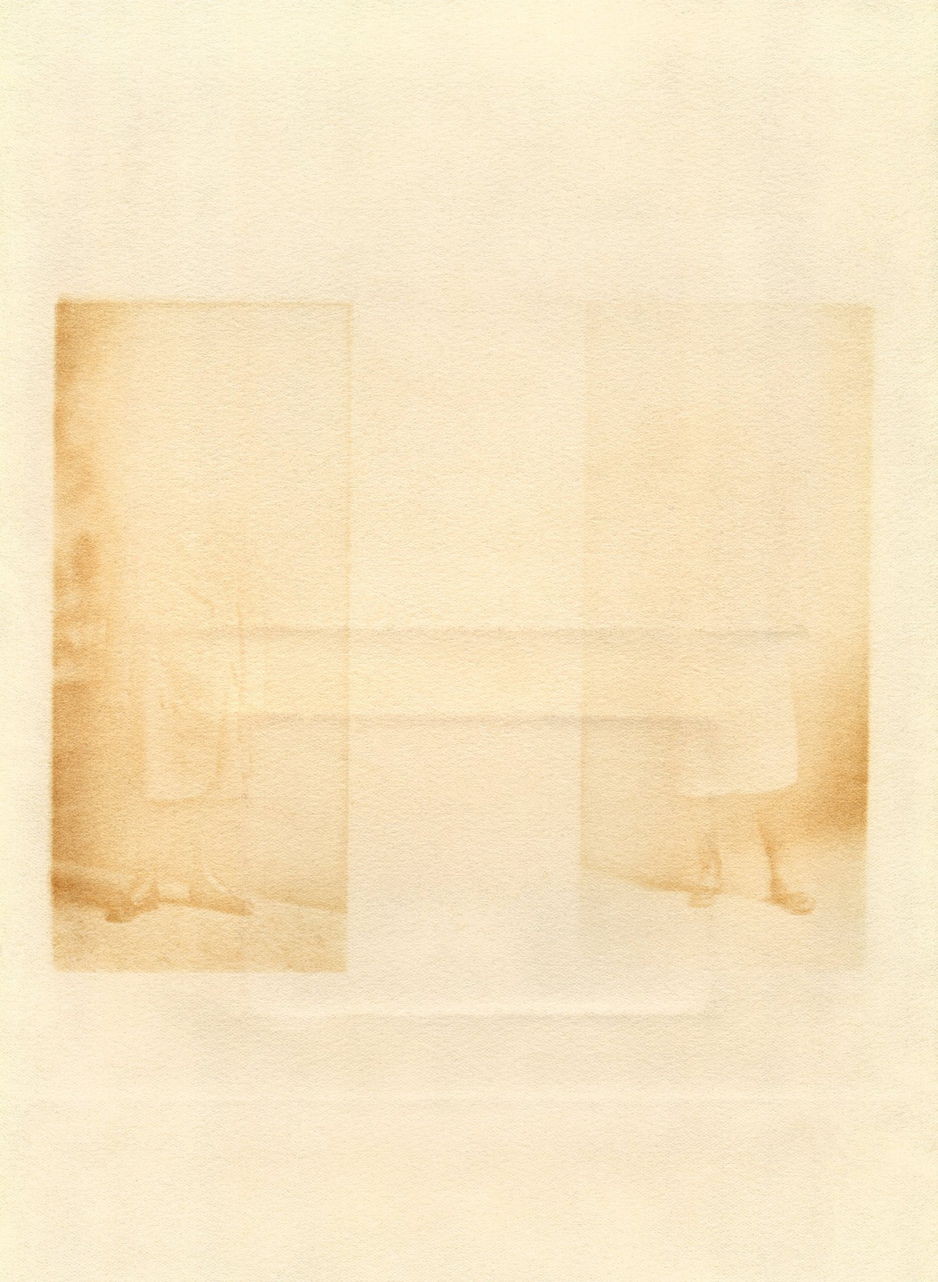
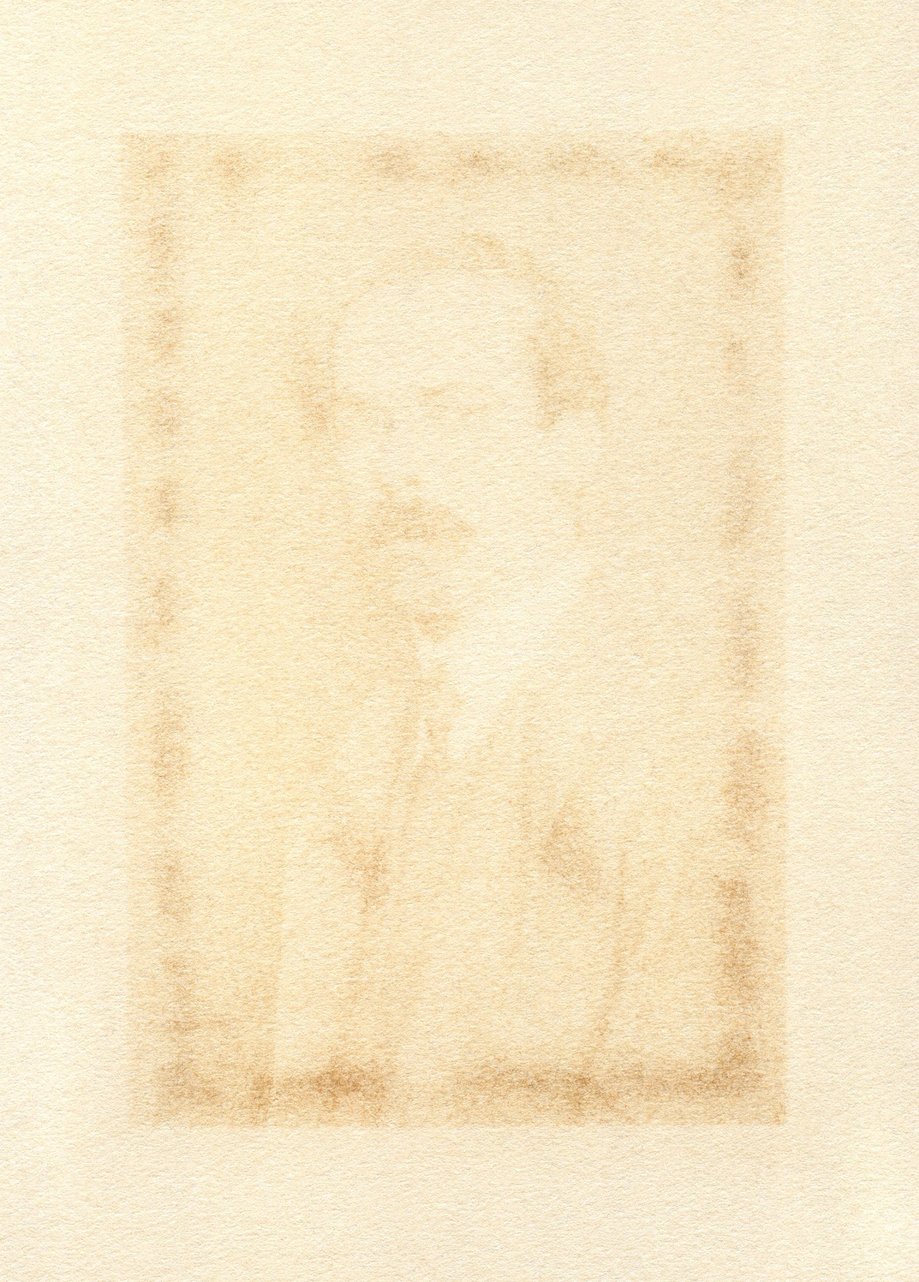
Acheiropoieta: add Man
Claude-Session: https://claude.ai/code/session_01JVoaYGW79WXXRpj5iE4Fxm

Changed region(s): [[0.0, 0.0938, 0.9552, 0.9062], [0.3081, 0.25, 0.4006, 0.3438]]

diff --git a/works/acheiropoieta.html b/works/acheiropoieta.html
@@ -6,5 +6,5 @@
 <link rel="stylesheet" href="../style.css?v=b70c86a7">
 </head><body>
 <header><a class="name" href="../index.html">Abraham Adams</a><nav><a href="../index.html" aria-current="page">works</a><a href="../books.html">books</a><a href="../exhibitions.html">exhibitions</a><a href="../info.html">info</a></nav></header>
-<main><article class="work"><h1><em>Acheiropoieta</em>, 2025</h1><p class="desc"><em>Acheiropoieta</em> is a series of images made by family-archive photographs imprinting themselves onto the backs of others over the course of 110 years in storage.</p><figure><img src="../img/acheiropoieta-01.jpg?v=5d37eb54" width="1790" height="2400" alt="Boy, 2025, from “Acheiropoieta" loading="eager"><figcaption>Boy, 2025, from “Acheiropoieta.” Digital color photograph, 13 × 17.5 in.</figcaption></figure><figure><img src="../img/acheiropoieta-02.jpg?v=d5be9d40" width="1757" height="2400" alt="Two Boys, 2025, from “Acheiropoieta" loading="lazy"><figcaption>Two Boys, 2025, from “Acheiropoieta.” Digital color photograph, 13 × 17.5 in.</figcaption></figure></article></main>
+<main><article class="work"><h1><em>Acheiropoieta</em>, 2025</h1><p class="desc"><em>Acheiropoieta</em> is a series of images made by family-archive photographs imprinting themselves onto the backs of others over the course of 110 years in storage.</p><figure><img src="../img/acheiropoieta-01.jpg?v=5d37eb54" width="1790" height="2400" alt="Boy, 2025, from “Acheiropoieta" loading="eager"><figcaption>Boy, 2025, from “Acheiropoieta.” Digital color photograph, 13 × 17.5 in.</figcaption></figure><figure><img src="../img/acheiropoieta-02.jpg?v=38ec5e78" width="1720" height="2400" alt="Man, 2025, from “Acheiropoieta" loading="lazy"><figcaption>Man, 2025, from “Acheiropoieta.” Digital color photograph, 13 × 17.5 in.</figcaption></figure><figure><img src="../img/acheiropoieta-03.jpg?v=d5be9d40" width="1757" height="2400" alt="Two Boys, 2025, from “Acheiropoieta" loading="lazy"><figcaption>Two Boys, 2025, from “Acheiropoieta.” Digital color photograph, 13 × 17.5 in.</figcaption></figure></article></main>
 </body></html>
